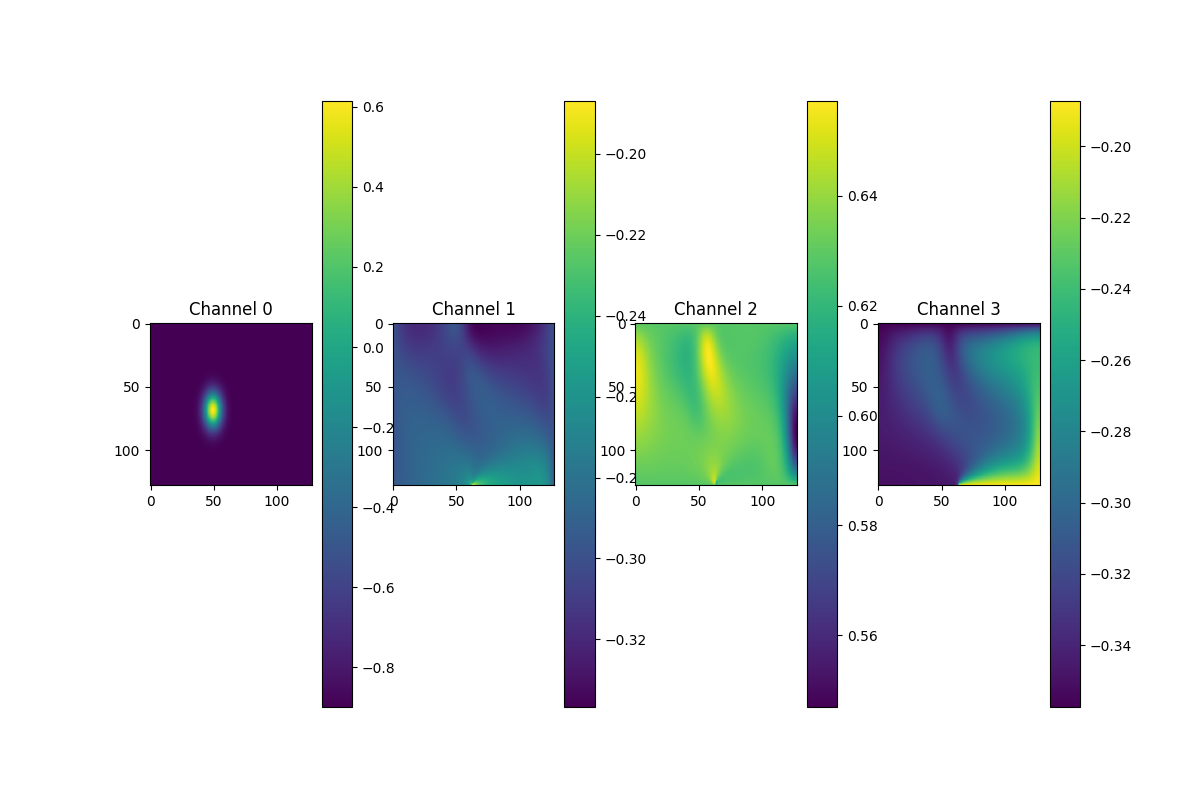
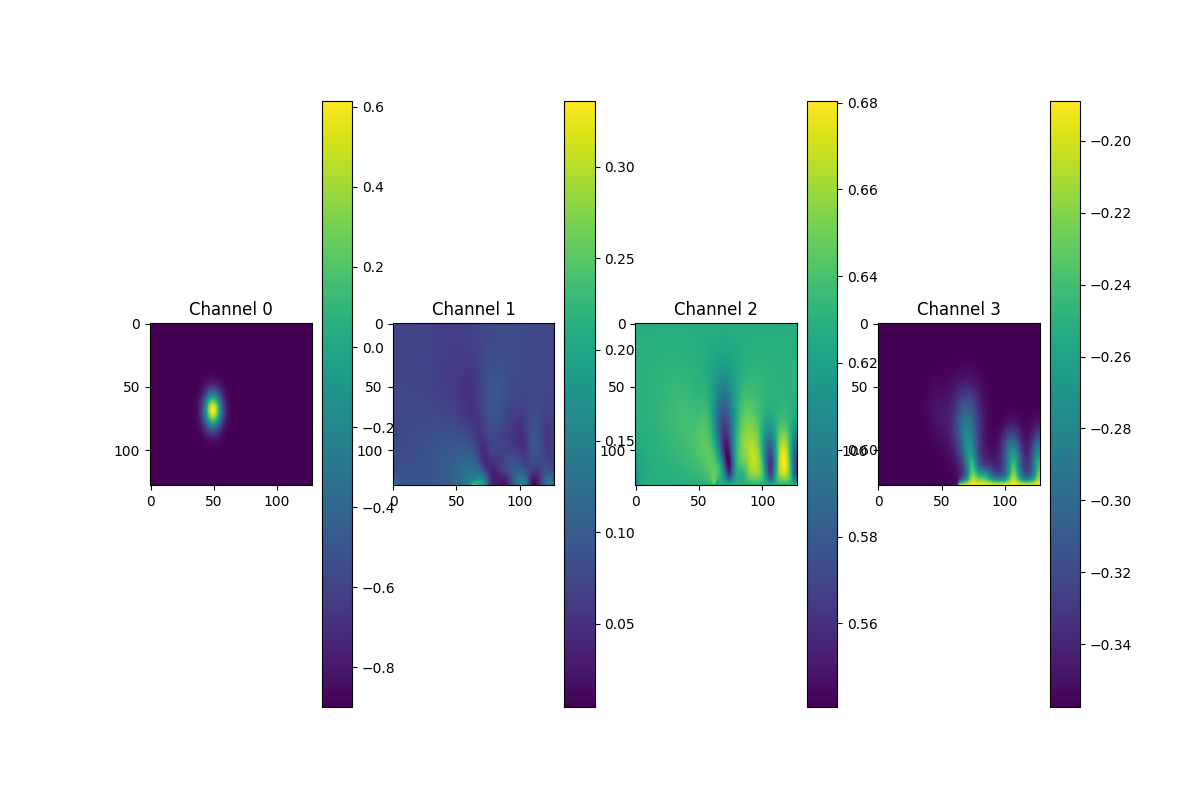
Initial commit

diff --git a/merge_data_Elder_wrong_1.py b/merge_data_Elder_wrong_1.py
@@ -1,0 +1,73 @@
+import numpy as np
+import os
+import scipy.io as sio
+from scipy.io import loadmat
+# set timer
+import time
+start_time = time.time()
+
+num_samples = 1000
+time_steps = 11
+H, W, C = 128, 128, 34
+
+output_base_path = "/data/yangchangfan/DiffusionPDE/data/Elder_wrong_1-merged/merge_{}.npy"
+# Create the output directory if it doesn't exist
+os.makedirs(os.path.dirname(output_base_path), exist_ok=True)
+
+data_base_path = "/data/yangchangfan/DiffusionPDE/data/training/Elder/"
+
+# -------------------- 加载归一化范围 --------------------
+range_allS_c = sio.loadmat(os.path.join(data_base_path, "S_c/range_S_c_t.mat"))['range_S_c_t'][0]
+range_allu_u = sio.loadmat(os.path.join(data_base_path, "u_u/range_u_u_t.mat"))['range_u_u_t']
+range_allu_v = sio.loadmat(os.path.join(data_base_path, "u_v/range_u_v_t.mat"))['range_u_v_t']
+range_allc_flow = sio.loadmat(os.path.join(data_base_path, "c_flow/range_c_flow_t.mat"))['range_c_flow_t']
+
+ranges = {
+    'S_c': range_allS_c,
+    'u_u': range_allu_u,
+    'u_v': range_allu_v,
+    'c_flow': range_allc_flow,
+}
+
+
+def minmax_normalize(x, min_val, max_val):
+    return -0.9 + 1.8 * (x - min_val) / (max_val - min_val)
+
+# -------------------- 主循环 --------------------
+for i in range(1, num_samples + 1):
+    combined_data = np.zeros((H, W, C), dtype=np.float32)
+
+    # ---------- S_c ----------
+    path_Sc = os.path.join(data_base_path, 'S_c', str(i), '0.mat')
+    Sc = loadmat(path_Sc)
+    Sc_data = list(Sc.values())[-1]
+    Sc_n = minmax_normalize(Sc_data, *ranges['S_c'])
+    combined_data[:, :, 0] = Sc_n
+
+    # ---------- u_u, u_v, c_flow ----------
+    var_names = ['u_u', 'u_v', 'c_flow']
+
+    for t in range(0, time_steps ):
+        # 时域场 t=0~10
+        for var_idx, var in enumerate(var_names):
+            min_val, max_val = ranges[var][t]
+
+            path_t = os.path.join(data_base_path, var, str(i), f'{t}.mat')
+            data_t = loadmat(path_t)
+            data_t = list(data_t.values())[-1]
+            data_t_n = minmax_normalize(data_t, min_val, max_val)
+            ch_idx = 1 + var_idx * time_steps + t
+            combined_data[:, :, ch_idx] = data_t_n
+
+    # ---------- 保存 .npy ----------
+    out_path = output_base_path.format(i)
+    np.save(out_path, combined_data)
+
+    # 打印部分信息
+    if i % 200 == 0:
+        print(f"[{i}] saved: {out_path}, shape: {combined_data.shape}, min: {combined_data.min():.4f}, max: {combined_data.max():.4f}")
+
+
+print("Finished processing all files.")
+print(f"运行时间: {time.time() - start_time} 秒")    
+

diff --git a/test_merge.py b/test_merge.py
@@ -140,16 +140,16 @@ range_data = load_ranges(base_path, variables)
 
 
 
-import numpy as np
+# import numpy as np
 
-file_path = "/data/yangchangfan/DiffusionPDE/data/TE_heat_sigl_E-merged/merge_1.npy"
-data = np.load(file_path)
+# file_path = "/data/yangchangfan/DiffusionPDE/data/Elder_wrong_1-merged/merge_1.npy"
+# data = np.load(file_path)
 
-# Check the shape and content
-print("Array shape:", data.shape)
-print("Data type:", data[:,:,2])
-print("Min value:", np.min(data[:,:,1]))
-print("Max value:", np.max(data[:,:,1]))
+# # Check the shape and content
+# print("Array shape:", data.shape)
+# print("Data type:", data[:,:,2])
+# print("Min value:", np.min(data[:,:,1]))
+# print("Max value:", np.max(data[:,:,1]))
 
 
 
@@ -159,31 +159,31 @@ print("Max value:", np.max(data[:,:,1]))
 # print("Content of 'u':", u)
 
 
-# data_Elder = np.load("/data/yangchangfan/DiffusionPDE/data/Elder_wrong-merged/merge_2.npy")
+data_Elder = np.load("/data/yangchangfan/DiffusionPDE/data/Elder_wrong_1-merged/merge_2.npy")
 
-# print(data_Elder.shape)
-# # exit()
+print(data_Elder.shape)
+# exit()
 
 
-# plt.figure(figsize=(12, 8))  # 可以调整窗口大小
-# channels = [0, 1, 12, 23]
-# # channels = [0, 2, 13, 24]
-# # channels = [0, 3, 14, 25]
-# # channels = [0, 4, 15, 26]
-# # channels = [0, 5, 16, 27]
-# # channels = [0, 6, 17, 28]
-# # channels = [0, 7, 18, 29]
-# # channels = [0, 8, 19, 30]
-# # channels = [0, 9, 20, 31]
+plt.figure(figsize=(12, 8))  # 可以调整窗口大小
+channels = [0, 1, 12, 23]
+channels = [0, 2, 13, 24]
+# channels = [0, 3, 14, 25]
+# channels = [0, 4, 15, 26]
+# channels = [0, 5, 16, 27]
+# channels = [0, 6, 17, 28]
+# channels = [0, 7, 18, 29]
+# channels = [0, 8, 19, 30]
+# channels = [0, 9, 20, 31]
 # channels = [0, 10, 21, 32]
-# # channels = [0, 11, 22, 33]
+# channels = [0, 11, 22, 33]
 
-# # 绘制子图
-# for i, channel in enumerate(channels):
-#     plt.subplot(1, 4, i + 1)  # 创建 2x2 的子图布局
-#     plt.imshow(data_Elder[:, :, channel])  # 绘制第 i 个通道的数据
-#     plt.title(f"Channel {i}")  # 添加标题
-#     plt.colorbar()  # 添加颜色条（可选）
+# 绘制子图
+for i, channel in enumerate(channels):
+    plt.subplot(1, 4, i + 1)  # 创建 2x2 的子图布局
+    plt.imshow(data_Elder[:, :, channel])  # 绘制第 i 个通道的数据
+    plt.title(f"Channel {i}")  # 添加标题
+    plt.colorbar()  # 添加颜色条（可选）
 
-# # 保存图像
-# plt.savefig("merge_Elder.png")
+# 保存图像
+plt.savefig("merge_Elder.png")

diff --git a/training/training_loop.py b/training/training_loop.py
@@ -41,9 +41,9 @@ def training_loop(
     kimg_per_tick       = 50,       # Interval of progress prints.
     snapshot_ticks      = 50,       # How often to save network snapshots, None = disable.
     state_dump_ticks    = 500,      # How often to dump training state, None = disable.
-    resume_pkl          = "/home/yangchangfan/CODE/DiffusionPDE/pretrained-TE_heat_sigl_E/00001--uncond-ddpmpp-edm-gpus7-batch84-fp32/network-snapshot-003024.pkl",     # Start from the given network snapshot, None = random initialization.
-    resume_state_dump   = "/home/yangchangfan/CODE/DiffusionPDE/pretrained-TE_heat_sigl_E/00001--uncond-ddpmpp-edm-gpus7-batch84-fp32/training-state-003024.pt",     # Start from the given training state, None = reset training state.
-    resume_kimg         = 3024,        # Start from the given training progress.
+    resume_pkl          = None,     # Start from the given network snapshot, None = random initialization.
+    resume_state_dump   = None,     # Start from the given training state, None = reset training state.
+    resume_kimg         = 0,        # Start from the given training progress.
     cudnn_benchmark     = True,     # Enable torch.backends.cudnn.benchmark?
     device              = torch.device('cuda'),
 ):

diff --git a/test_merge_Elder.py b/test_merge_Elder.py
@@ -1,10 +1,12 @@
 import numpy as np
+import matplotlib
+matplotlib.use('Agg')
 import matplotlib.pyplot as plt
 from scipy.io import loadmat
 import os
 
 # === 路径配置 ===
-merged_file = "/data/yangchangfan/DiffusionPDE/data/Elder-merged/merge_1.npy"
+merged_file = "/data/yangchangfan/DiffusionPDE/data/Elder_wrong_1-merged/merge_1.npy"
 gt_base_path = "/data/yangchangfan/DiffusionPDE/data/training/Elder/"
 save_path = "test_merge_elder.png"
 

diff --git a/plot_result_VA.py b/plot_result_VA.py
@@ -1,5 +1,7 @@
 import os
 import scipy.io as sio
+import matplotlib
+matplotlib.use('Agg')
 import matplotlib.pyplot as plt
 import numpy as np
 import torch

diff --git a/README_TE_heat.md b/README_TE_heat.md
@@ -104,6 +104,9 @@ CUDA_VISIBLE_DEVICES=2,3,4,5,6,7 torchrun --standalone --nproc_per_node=6 train.
 # Elder_wrong
 CUDA_VISIBLE_DEVICES=0,1,2,3,5 torchrun --standalone --nproc_per_node=5 train.py --outdir=/home/yangchangfan/CODE/DiffusionPDE/pretrained-Elder_wrong/ --data=/data/yangchangfan/DiffusionPDE/data/Elder_wrong-merged/ --cond=0 --arch=ddpmpp --batch=60 --batch-gpu=12 --tick=10 --snap=50 --dump=100 --duration=10 --ema=0.05
 
+# Elder_wrong_1
+CUDA_VISIBLE_DEVICES=7,6,5,4 torchrun --standalone --nproc_per_node=4 train.py --outdir=/home/yangchangfan/CODE/DiffusionPDE/pretrained-Elder_wrong_1/ --data=/data/yangchangfan/DiffusionPDE/data/Elder_wrong_1-merged/ --cond=0 --arch=ddpmpp --batch=48 --batch-gpu=12 --tick=10 --snap=50 --dump=100 --duration=10 --ema=0.05
+
 ## Solve Forward Problem
 
 To solve the forward problem with sparse observation on the coefficient (or initial state) space, use, e.g.,
